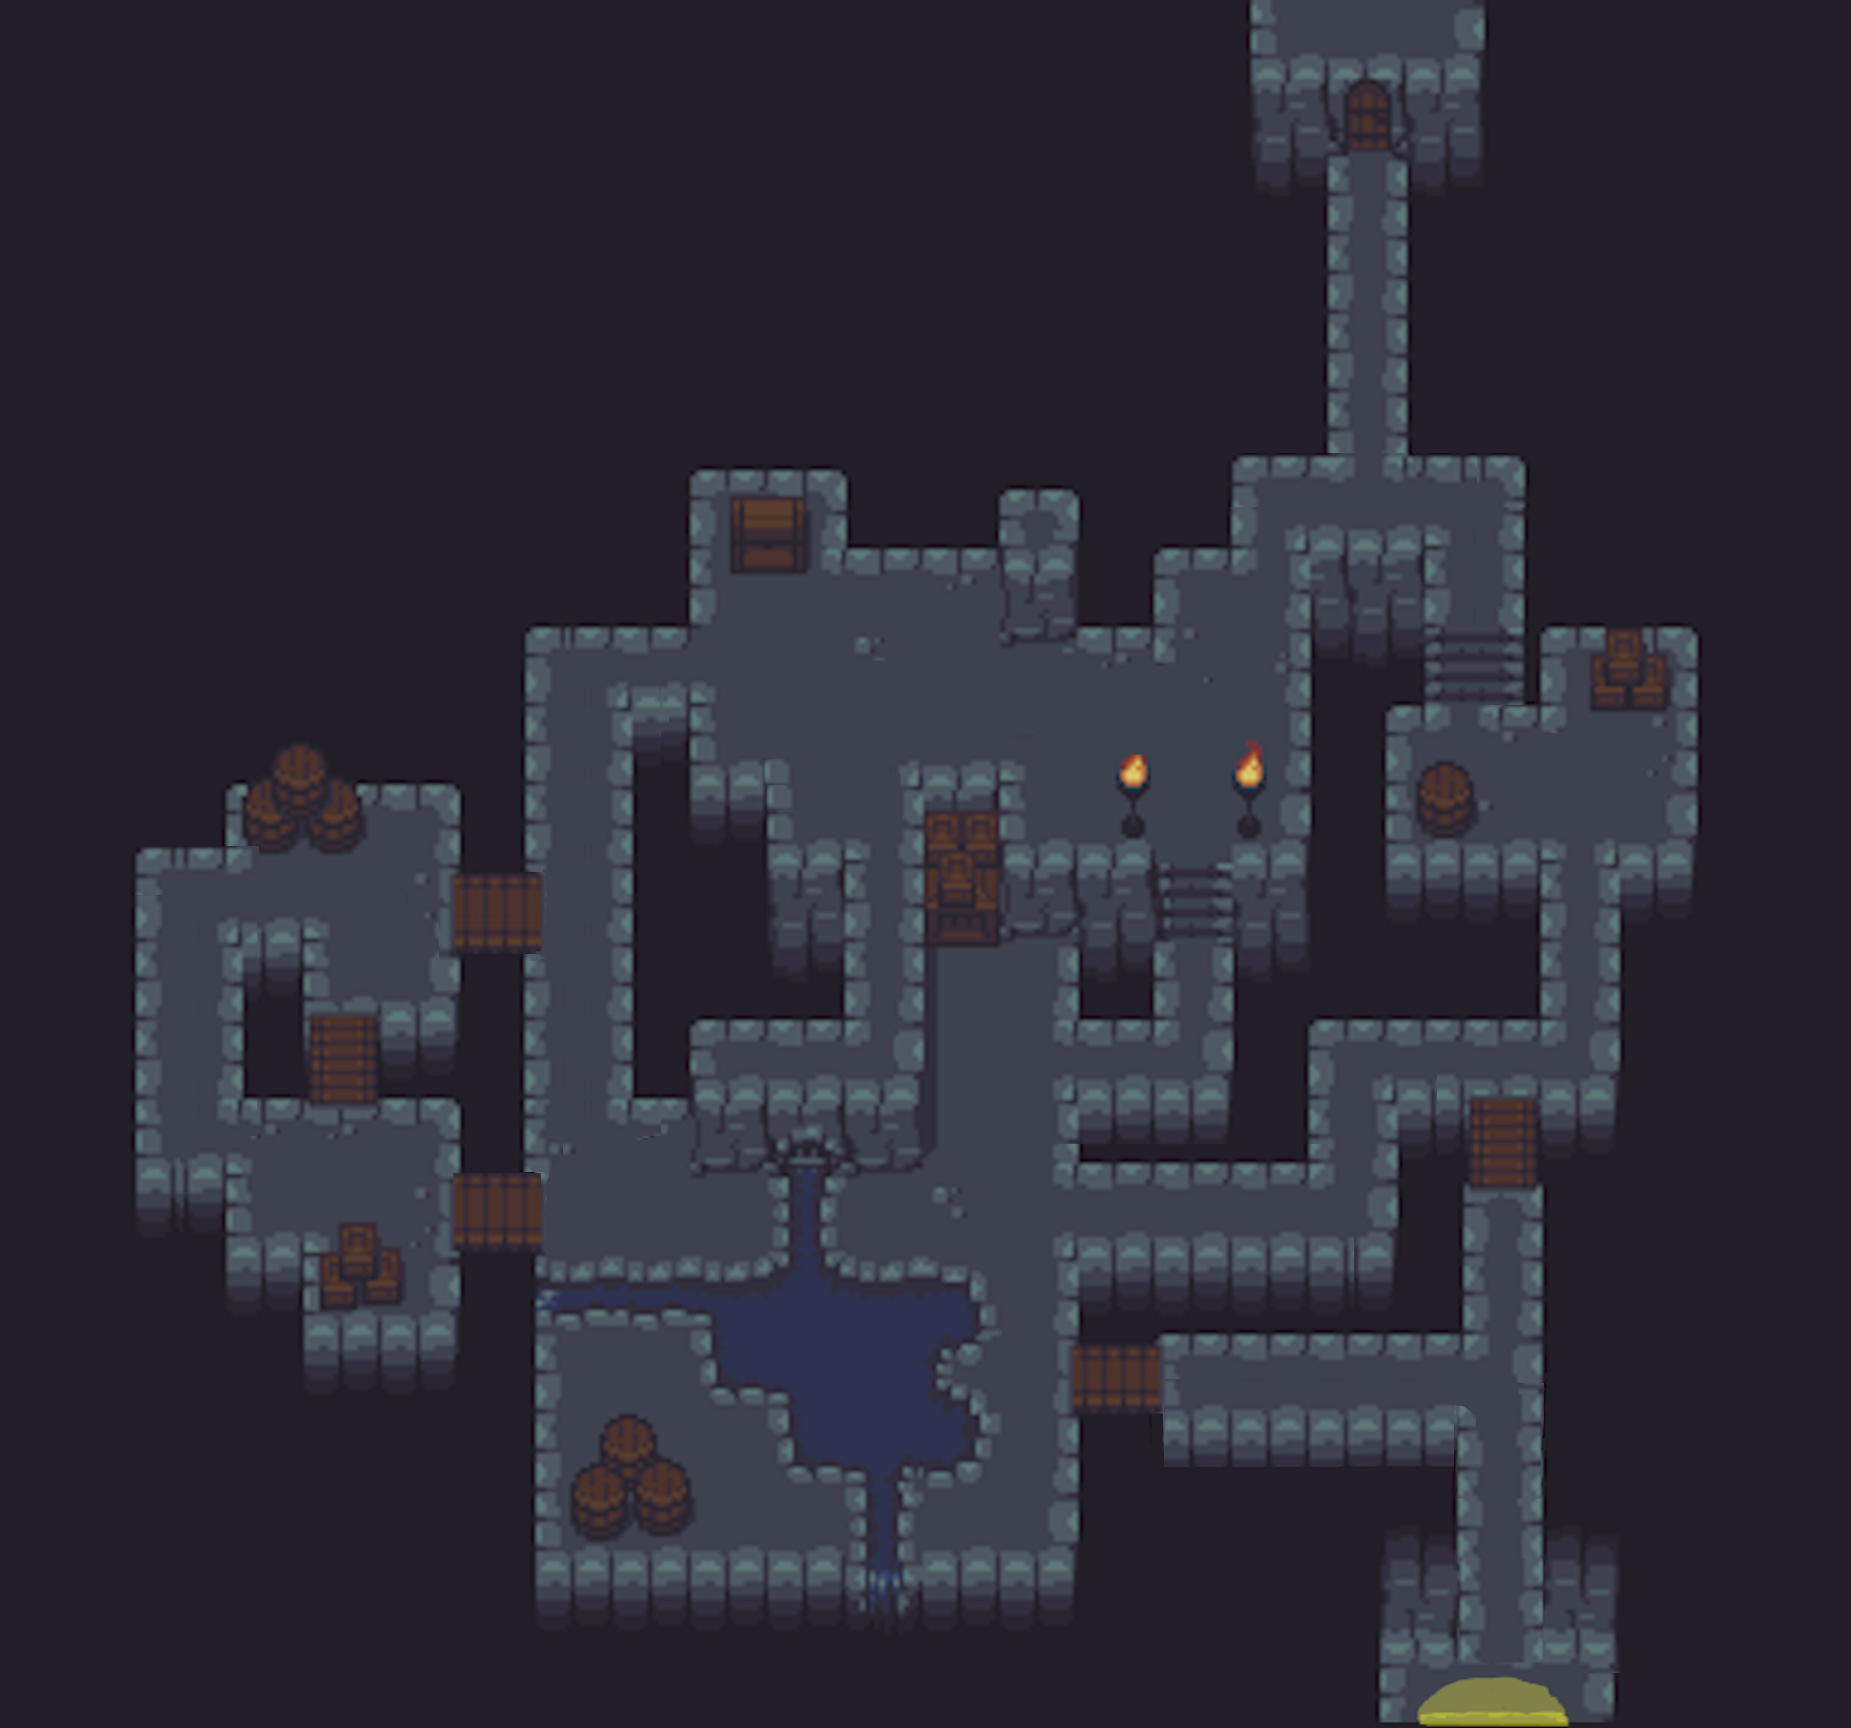
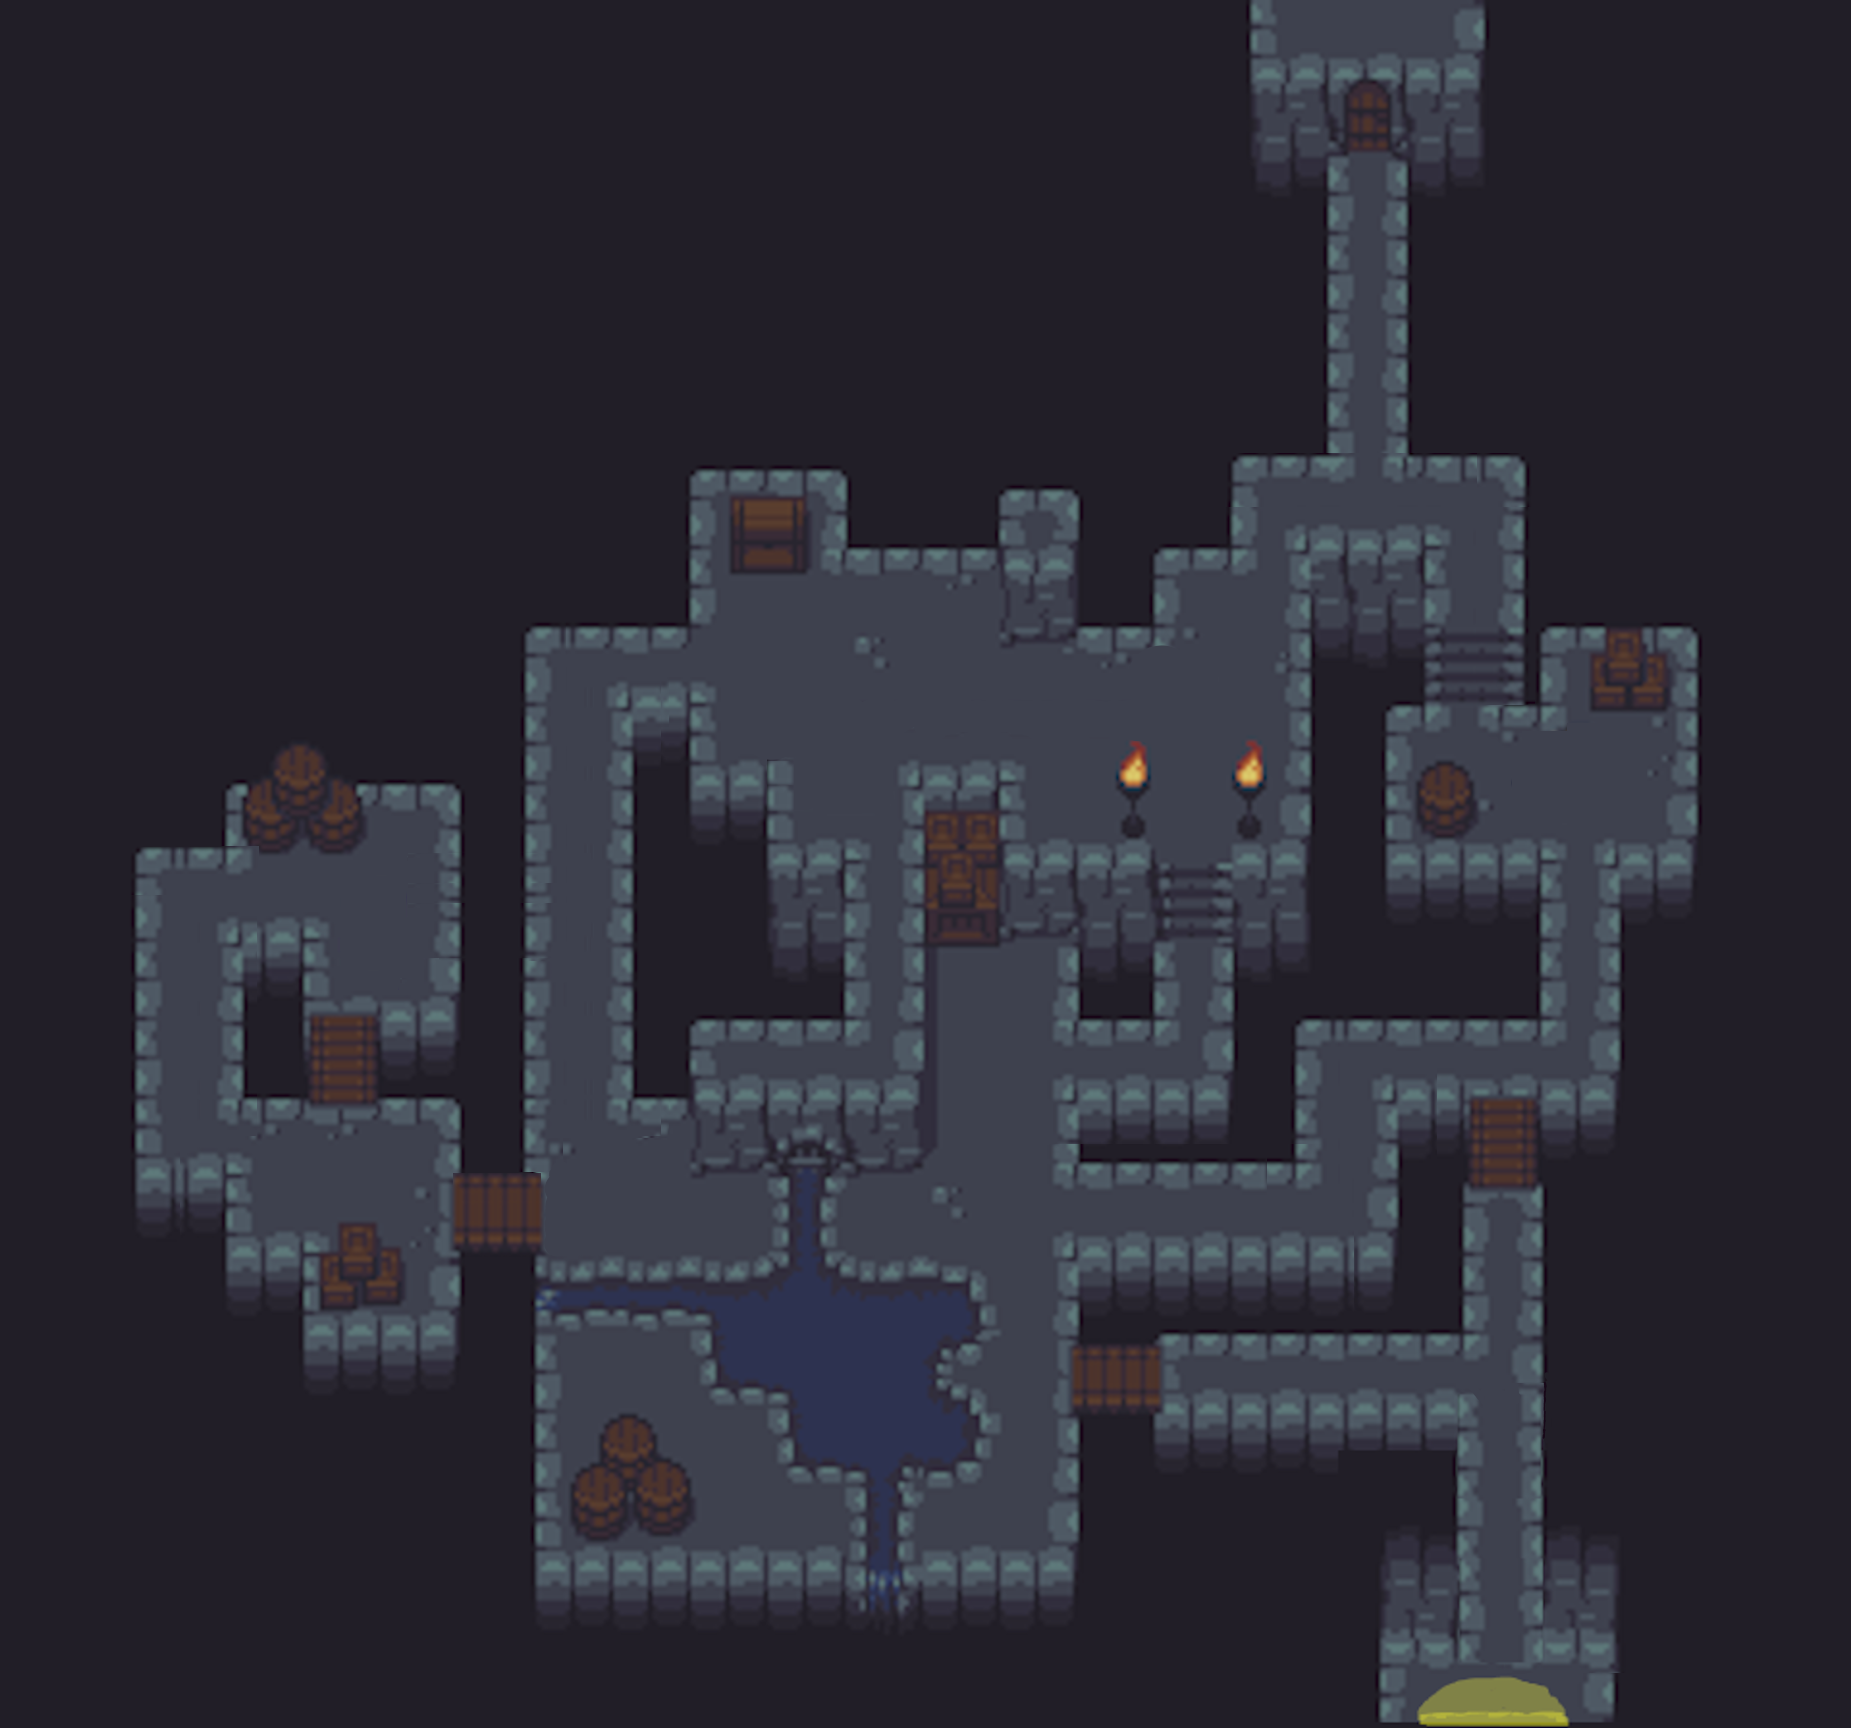
coffre et boss

Changed region(s): [[0.6775, 0.5938, 0.7391, 0.6875], [0.6159, 0.8125, 0.8006, 0.8438], [0.2464, 0.5, 0.3079, 0.5625]]

diff --git a/mapgrid.py b/mapgrid.py
@@ -38,8 +38,8 @@ Village_grid =[
 [1, 1, 1, 1, 1, 1, 1, 1, 1, 1, 0, 0, 0, 0, 0, 0, 0, 0, 0, 1, 0, 0, 0, 0, 0, 0, 0, 1, 1, 1, 1, 1, 0, 0, 0, 0, 0, 1, 1, 1, 1, 1, 1, 1, 1, 1, 1, 1, 1, 1, 1, 1, 1, 1, 1, 1, 0, 0, 1, 0, 0, 0, 1, 1, 1, 1],
 [1, 1, 1, 1, 1, 1, 1, 1, 1, 1, 1, 1, 0, 0, 0, 0, 0, 0, 1, 1, 0, 0, 0, 0, 0, 0, 0, 1, 1, 1, 1, 1, 0, 0, 0, 0, 0, 1, 1, 1, 1, 1, 1, 1, 1, 1, 1, 2305141, 1, 1, 1, 1, 2316141, 1, 1, 1, 0, 0, 1, 0, 0, 1, 1, 1, 1, 1],
 [1, 1, 1, 1, 1, 1, 1, 1, 0, 0, 1, 1, 1, 1, 2223261, 1, 1, 1, 1, 1, 0, 0, 0, 0, 0, 0, 0, 0, 1, 1, 1, 0, 0, 0, 0, 0, 0, 0, 0, 0, 0, 0, 0, 0, 0, 0, 0, 0, 0, 0, 0, 0, 0, 0, 0, 0, 0, 0, 0, 0, 0, 1, 1, 1, 1, 1],
-[1, 1, 1, 1, 1, 1, 1, 1, 1, 0, 0, 0, 1, 4, 0, 4, 1, 1, 0, 0, 0, 0, 0, 0, 0, 0, 0, 0, 0, 0, 0, 0, 0, 0, 0, 0, 0, 0, 0, 0, 0, 0, 0, 0, 0, 0, 0, 0, 0, 0, 0, 0, 0, 0, 0, 0, 0, 0, 0, 0, 0, 1, 1, 1, 1, 1],
-[1, 1, 1, 1, 1, 5, 0, 0, 0, 0, 0, 0, 0, 0, 0, 0, 0, 0, 0, 0, 0, 0, 0, 0, 0, 0, 0, 0, 0, 0, 0, 0, 0, 0, 0, 0, 0, 1, 0, 0, 0, 0, 0, 0, 0, 0, 0, 0, 0, 0, 0, 0, 0, 0, 0, 0, 0, 0, 1, 1, 1, 1, 1, 1, 1, 1],
+[1, 1, 1, 1, 1, 1, 1, 1, 1, 0, 0, 0, 1, 4, 0, 0, 1, 1, 0, 0, 0, 0, 0, 0, 0, 0, 0, 0, 0, 0, 0, 0, 0, 0, 0, 0, 0, 0, 0, 0, 0, 0, 0, 0, 0, 0, 0, 0, 0, 0, 0, 0, 0, 0, 0, 0, 0, 0, 0, 0, 0, 1, 1, 1, 1, 1],
+[1, 1, 1, 1, 1, 1, 5, 0, 0, 0, 0, 0, 0, 0, 0, 0, 0, 0, 0, 0, 0, 0, 0, 0, 0, 0, 0, 0, 0, 0, 0, 0, 0, 0, 0, 0, 0, 1, 0, 0, 0, 0, 0, 0, 0, 0, 0, 0, 0, 0, 0, 0, 0, 0, 0, 0, 0, 0, 1, 1, 1, 1, 1, 1, 1, 1],
 [1, 1, 1, 1, 0, 0, 0, 0, 0, 0, 0, 0, 0, 0, 0, 0, 0, 0, 0, 0, 0, 0, 0, 0, 0, 0, 1, 1, 0, 0, 0, 0, 0, 0, 0, 0, 0, 1, 1, 1, 1, 1, 1, 1, 1, 1, 1, 0, 0, 1, 1, 1, 1, 0, 0, 0, 1, 1, 1, 1, 1, 1, 1, 1, 1, 1],
 [1, 1, 1, 1, 0, 0, 0, 0, 0, 0, 1, 1, 1, 1, 1, 1, 1, 1, 1, 1, 1, 1, 0, 0, 0, 0, 1, 1, 1, 1, 1, 1, 1, 1, 0, 0, 0, 1, 1, 1, 1, 1, 1, 1, 1, 1, 1, 1, 1, 1, 1, 1, 1, 1, 1, 1, 1, 1, 0, 0, 0, 0, 0, 1, 1, 1],
 [1, 1, 1, 1, 1, 0, 0, 0, 0, 0, 1, 0, 0, 0, 0, 0, 0, 0, 0, 0, 0, 1, 0, 0, 0, 0, 0, 1, 1, 1, 1, 1, 1, 1, 0, 0, 0, 1, 1, 1, 1, 1, 1, 1, 1, 1, 1, 1, 1, 1, 1, 1, 1, 1, 1, 1, 0, 0, 0, 0, 0, 0, 0, 0, 1, 1],
@@ -87,19 +87,19 @@ Grotte_grid=[
 [1, 1, 1, 1, 1, 1, 1, 1, 1, 1, 1, 0, 5, 1, 1, 1, 1, 1, 1, 0, 0, 0, 0, 0, 1, 1, 1, 1, 1],
 [1, 1, 1, 1, 1, 1, 1, 1, 1, 1, 1, 0, 0, 0, 0, 0, 1, 1, 0, 0, 1, 1, 0, 0, 1, 1, 1, 1, 1],
 [1, 1, 1, 1, 1, 1, 1, 1, 0, 0, 0, 0, 0, 0, 0, 6, 0, 0, 0, 0, 1, 1, 0, 0, 0, 0, 1, 1, 1],
-[1, 1, 1, 1, 1, 1, 1, 1, 0, 0, 1, 0, 0, 0, 0, 0, 0, 0, 0, 0, 1, 1, 0, 0, 6, 0, 1, 1, 1],
+[1, 1, 1, 1, 1, 1, 1, 1, 0, 0, 1, 0, 0, 6, 0, 0, 0, 0, 0, 0, 1, 1, 0, 0, 6, 0, 1, 1, 1],
 [1, 1, 1, 5, 0, 0, 0, 1, 0, 0, 1, 1, 0, 0, 1, 1, 0, 0, 0, 0, 1, 1, 0, 0, 0, 0, 1, 1, 1],
-[1, 1, 0, 6, 0, 0, 0, 0, 0, 0, 1, 1, 1, 0, 1, 1, 1, 1, 0, 0, 1, 1, 1, 1, 0, 1, 1, 1, 1],
-[1, 1, 0, 0, 0, 0, 0, 0, 0, 0, 1, 1, 1, 0, 1, 5, 0, 1, 0, 0, 1, 1, 1, 1, 0, 1, 1, 1, 1],
+[1, 1, 0, 6, 0, 0, 0, 1, 0, 0, 1, 1, 1, 0, 1, 1, 1, 1, 0, 0, 1, 1, 1, 1, 0, 1, 1, 1, 1],
+[1, 1, 0, 0, 0, 0, 0, 1, 0, 0, 1, 1, 1, 0, 1, 5, 0, 1, 0, 1, 1, 1, 1, 1, 0, 1, 1, 1, 1],
 [1, 1, 0, 0, 1, 0, 0, 1, 0, 0, 1, 1, 1, 0, 1, 0, 0, 1, 0, 1, 1, 1, 1, 1, 0, 1, 1, 1, 1],
 [1, 1, 0, 0, 1, 0, 1, 1, 0, 0, 1, 0, 0, 0, 1, 0, 0, 0, 0, 1, 0, 0, 0, 0, 0, 1, 1, 1, 1],
-[1, 1, 0, 0, 0, 0, 0, 1, 0, 0, 0, 1, 1, 1, 0, 0, 0, 1, 1, 1, 0, 0, 1, 0, 1, 1, 1, 1, 1],
-[1, 1, 0, 0, 0, 0, 0, 0, 0, 0, 0, 0, 0, 6, 0, 0, 0, 0, 0, 0, 0, 0, 1, 0, 1, 1, 1, 1, 1],
-[1, 1, 1, 1, 0, 0, 0, 0, 0, 0, 0, 0, 0, 0, 0, 0, 0, 0, 0, 0, 0, 0, 1, 0, 1, 1, 1, 1, 1],
-[1, 1, 1, 1, 1, 0, 0, 1, 1, 0, 0, 0, 0, 6, 0, 0, 0, 1, 1, 1, 1, 1, 1, 0, 1, 1, 1, 1, 1],
-[1, 1, 1, 1, 1, 1, 1, 1, 1, 0, 0, 0, 0, 0, 0, 0, 0, 0, 0, 0, 0, 0, 0, 0, 1, 1, 1, 1, 1],
-[1, 1, 1, 1, 1, 1, 1, 1, 1, 0, 0, 0, 0, 0, 0, 0, 0, 0, 0, 0, 0, 0, 0, 0, 1, 1, 1, 1, 1],
-[1, 1, 1, 1, 1, 1, 1, 1, 1, 0, 0, 0, 0, 0, 0, 0, 0, 1, 1, 1, 1, 1, 1, 0, 1, 1, 1, 1, 1],
+[1, 1, 0, 0, 0, 0, 0, 1, 0, 0, 0, 1, 1, 1, 1, 0, 0, 1, 1, 1, 0, 0, 1, 0, 1, 1, 1, 1, 1],
+[1, 1, 0, 0, 0, 0, 0, 0, 0, 0, 0, 0, 1, 0, 0, 0, 0, 0, 0, 0, 0, 1, 1, 0, 1, 1, 1, 1, 1],
+[1, 1, 1, 1, 0, 0, 0, 0, 0, 0, 0, 0, 1, 0, 0, 0, 0, 0, 0, 0, 0, 1, 1, 0, 1, 1, 1, 1, 1],
+[1, 1, 1, 1, 1, 0, 0, 1, 1, 1, 1, 1, 1, 6, 1, 0, 0, 1, 1, 1, 1, 1, 1, 0, 1, 1, 1, 1, 1],
+[1, 1, 1, 1, 1, 1, 1, 1, 1, 0, 0, 0, 0, 1, 1, 0, 0, 0, 0, 0, 0, 0, 0, 0, 1, 1, 1, 1, 1],
+[1, 1, 1, 1, 1, 1, 1, 1, 1, 0, 0, 0, 1, 1, 1, 0, 0, 1, 0, 0, 0, 0, 0, 0, 1, 1, 1, 1, 1],
+[1, 1, 1, 1, 1, 1, 1, 1, 1, 0, 0, 0, 0, 1, 0, 0, 0, 1, 1, 1, 1, 1, 1, 0, 1, 1, 1, 1, 1],
 [1, 1, 1, 1, 1, 1, 1, 1, 1, 1, 1, 1, 1, 1, 1, 1, 1, 1, 1, 1, 1, 1, 1, 0, 1, 1, 1, 1, 1],
 [1, 1, 1, 1, 1, 1, 1, 1, 1, 1, 1, 1, 1, 1, 1, 1, 1, 1, 1, 1, 1, 1, 1, 0, 1, 1, 1, 1, 1],
 [1, 1, 1, 1, 1, 1, 1, 1, 1, 1, 1, 1, 1, 1, 1, 1, 1, 1, 1, 1, 1, 1, 1, 2114103, 1, 1, 1, 1, 1]
@@ -185,7 +185,7 @@ Salle_boss_grid = [
 [1, 1, 1, 1, 1, 1, 1, 1, 1, 1, 1, 1, 1, 1, 1, 1, 1, 1, 1, 1],
 [1, 1, 1, 1, 1, 1, 1, 1, 1, 1, 1, 1, 1, 1, 1, 1, 1, 1, 1, 1],
 [1, 1, 1, 1, 0, 0, 0, 0, 0, 0, 0, 0, 0, 0, 0, 0, 1, 1, 1, 1],
-[1, 1, 1, 0, 0, 0, 0, 0, 0, 0, 0, 0, 0, 0, 0, 0, 0, 1, 1, 1],
+[1, 1, 1, 0, 0, 0, 0, 0, 0, 0, 5, 0, 0, 0, 0, 0, 0, 1, 1, 1],
 [1, 1, 0, 0, 0, 0, 0, 0, 0, 0, 0, 0, 0, 0, 0, 0, 0, 0, 1, 1],
 [1, 1, 0, 0, 0, 0, 0, 0, 0, 0, 0, 0, 0, 0, 0, 0, 0, 0, 1, 1],
 [1, 1, 0, 0, 0, 0, 0, 0, 0, 0, 0, 0, 0, 0, 0, 0, 0, 0, 1, 1],

diff --git a/Fonction.py b/Fonction.py
@@ -348,7 +348,6 @@ class perso(element_anime_dir):
                self.map[2][attack_rect.y//64][(attack_rect.x+52)//64]==6 or
                self.map[2][(attack_rect.y+52)//64][attack_rect.x//64]==6 or
                self.map[2][(attack_rect.y+52)//64][(attack_rect.x+52)//64]==6):
-
                 if self.map_id in map_having_ennemi:
                     for ennemi in ennemiL:
                         if(attack_rect.colliderect(ennemi.rect)):
@@ -657,7 +656,7 @@ class perso(element_anime_dir):
                                     if c.inclinaison ==3:
                                         c.image = pygame.image.load("Source/Autre/Chest/chest_open_bas.png")
                                         c.image = pygame.transform.scale(c.image, (60,60))
-                                        
+
                                 self.inDialog = True
                                 self.fenetre.blit(boxImage, rectBox)
                                 myfont.render_to(self.fenetre, (152,452),"Vous avez trouvé " + c.objet.nom+ " !", (0,0,0))
@@ -741,7 +740,7 @@ class ennemi(element_anime_dir):
             rect_provisoire.y+=self.vitesse #Déplacement Focus
 
 
-        if(perso.map[2][rect_provisoire.y//64][rect_provisoire.x//64]==0 or perso.map[2][rect_provisoire.y//64][rect_provisoire.x//64]==6):
+        if((perso.map[2][rect_provisoire.y//64][rect_provisoire.x//64]==0) or perso.map[2][rect_provisoire.y//64][rect_provisoire.x//64]==6):
             (perso.map[2])[self.rect.y//64][self.rect.x//64] = 0
             self.rect = rect_provisoire
             (perso.map[2])[rect_provisoire.y//64][rect_provisoire.x//64] = 6
@@ -929,25 +928,25 @@ def lecture_objet():
     objet["ennemi"]["boss"]["bas"]=[]
 
     image = pygame.image.load("Source/PNJ/Boss/boss_all.png").convert_alpha()
-    image = pygame.transform.scale(image, (150, 150))
+    image = pygame.transform.scale(image, (80, 80))
     objet["ennemi"]["boss"]["bas"].append(image)
 
     objet["ennemi"]["boss"]["haut"]=[]
 
     image = pygame.image.load("Source/PNJ/Boss/boss_all.png").convert_alpha()
-    image = pygame.transform.scale(image, (150, 150))
+    image = pygame.transform.scale(image, (80, 80))
     objet["ennemi"]["boss"]["haut"].append(image)
 
     objet["ennemi"]["boss"]["droite"]=[]
 
     image = pygame.image.load("Source/PNJ/Boss/boss_all.png").convert_alpha()
-    image = pygame.transform.scale(image, (150, 150))
+    image = pygame.transform.scale(image, (80, 80))
     objet["ennemi"]["boss"]["droite"].append(image)
 
     objet["ennemi"]["boss"]["gauche"]=[]
 
     image = pygame.image.load("Source/PNJ/Boss/boss_all.png").convert_alpha()
-    image = pygame.transform.scale(image, (150, 150))
+    image = pygame.transform.scale(image, (80, 80))
     objet["ennemi"]["boss"]["gauche"].append(image)
 
 

diff --git a/pnj_gestion.py b/pnj_gestion.py
@@ -26,7 +26,7 @@ aubergiste = pnj(fenetre,image = pygame.image.load("Source/Map/warp.png") ,x= dB
 
 niece = pnj(fenetre,image = pygame.image.load("Source/PNJ/USE/solider_stand_bas.png") ,x= dBox(1,Village_grid)[0]*64, y = dBox(1,Village_grid)[1]*64,text = ["C'était ton collier ! Oh non... Qu'est ce que je vais faire...","Pour tout te dire hier en allant patrouiller dans la grotte, le collier est tomber lors d'un combat", "Si tu y tient vraiment je peux te laisser passer..."], inclinaison = 3)
 
-soldat2 = pnj(fenetre,image = pygame.image.load("Source/PNJ/USE/solider_stand_bas.png") ,x= (dBox(2,Village_grid)[0]*64)+15, y = dBox(2,Village_grid)[1]*64,text = ["Un enfant de 8 ans dans une grotte pleine de monstres...","...Je refléchis trop ! Qu'est ce qu'il pourrait bien lui arriver de pire",], inclinaison = 3)
+# soldat2 = pnj(fenetre,image = pygame.image.load("Source/PNJ/USE/solider_stand_bas.png") ,x= (dBox(2,Village_grid)[0]*64)+15, y = dBox(2,Village_grid)[1]*64,text = ["Un enfant de 8 ans dans une grotte pleine de monstres...","...Je refléchis trop ! Qu'est ce qu'il pourrait bien lui arriver de pire",], inclinaison = 3)
 
 
 
@@ -36,4 +36,4 @@ pnj_liste[4][0] = armurier
 pnj_liste[5][0] = epiciere
 
 pnj_liste[1][0] = niece
-pnj_liste[1][1] = soldat2
+# pnj_liste[1][1] = soldat2

diff --git a/MAIN.py b/MAIN.py
@@ -170,6 +170,15 @@ while Play:
 		if(not perso.inDialog):
 			perso.deplacement(vie=perso.vie, ennemiL=ennemi_liste[perso.map_id])
 
+		if perso.map_id in map_having_ennemi:
+			for ennemi in ennemi_liste[perso.map_id]:
+				if ennemi.vie > 0:
+					ennemi.afficher(perso=perso)
+					ennemi.deplacement( perso = perso)
+					ennemi.attaque(perso = perso)
+				else:
+					perso.map[2][ennemi.rect.y//64][ennemi.rect.x//64] =0
+
 		#Gestion Dialogue
 		perso.read(DB = DialogBoxes)
 		perso.talk(PNG = pnj_liste)
@@ -179,18 +188,17 @@ while Play:
 
 		#Gestion coffre
 		if perso.map_id in map_having_coffre:
-			for coffre in coffre_liste[perso.map_id]:
-				coffre.afficher(perso=perso)
+			if perso.map_id == 6:
+				for ennemi in ennemi_liste[perso.map_id]:
+					if ennemi.vie <= 0:
+						for coffre in coffre_liste[perso.map_id]:
+							coffre.afficher(perso=perso)
+			else:
+				for coffre in coffre_liste[perso.map_id]:
+					coffre.afficher(perso=perso)
 
 		#Gestion ennemis
-		if perso.map_id in map_having_ennemi:
-			for ennemi in ennemi_liste[perso.map_id]:
-				if ennemi.vie > 0:
-					ennemi.afficher(perso=perso)
-					ennemi.deplacement( perso = perso)
-					ennemi.attaque(perso = perso)
-				else:
-					perso.map[2][ennemi.rect.y//64][ennemi.rect.x//64] =0
+
 
 
 

diff --git a/coffre_gestion.py b/coffre_gestion.py
@@ -28,6 +28,9 @@ map3_coffre_2 = coffre(fenetre,image = pygame.image.load("Source/Autre/Chest/big
 
 map3_coffre_3 = coffre(fenetre,image = pygame.image.load("Source/Autre/Chest/big_chest_bas.png") ,x= dBox(3,Grotte_grid)[0]*64, y = dBox(3,Grotte_grid)[1]*64,objet = objet_dict["Clé3"], inclinaison = 3, open = False)
 
+map6_coffre_1 = coffre(fenetre,image = pygame.image.load("Source/Autre/Chest/big_chest_bas.png") ,x= dBox(1,Salle_boss_grid)[0]*64, y = dBox(1,Salle_boss_grid)[1]*64,objet = objet_dict["Collier"], inclinaison = 3, open = False)
+
+
 coffre_liste[0][0] = map1_coffre_1
 
 coffre_liste[1][0] = map2_coffre_1
@@ -36,3 +39,5 @@ coffre_liste[1][1] = map2_coffre_2
 coffre_liste[2][0] = map3_coffre_1
 coffre_liste[2][1] = map3_coffre_2
 coffre_liste[2][2] = map3_coffre_3
+
+coffre_liste[6][0] = map6_coffre_1

diff --git a/constantes.py b/constantes.py
@@ -11,15 +11,15 @@ CameraX=0
 CameraY=0
 
 DialogBoxes = [ [0,0],[], [] ,[], [], [], []]
-pnj_liste = [ [0],[0,0],[],[0],[0],[0],[] ]
-coffre_liste = [ [0],[0,0],[0,0,0],[],[],[],[]]
+pnj_liste = [ [0],[0],[],[0],[0],[0],[] ]
+coffre_liste = [ [0],[0,0],[0,0,0],[],[],[],[0]]
 ennemi_liste = [ [],[], [0,0,0,0,0] ,[], [], [], [0]]
 
 
 Intro, Menu, enJeu, GameOver = 1,0,0,0
 myfont = pygame.freetype.Font(None, 15)
 map_having_pnj = [0,1,3,4,5]
-map_having_coffre = [0,1,2]
+map_having_coffre = [0,1,2,6]
 map_having_ennemi = [2,6]
 
 Transi = [pygame.image.load("Source/Transi/1.jpg").convert_alpha(),

diff --git a/objet_gestion.py b/objet_gestion.py
@@ -11,5 +11,6 @@ objet_dict = {
     "Clé1" : Objet(image = elementgraphique(pygame.image.load("Source/Autre/key.png"), fenetre), nom = "cle1", type = "quete"),
     "Clé2" : Objet(image = elementgraphique(pygame.image.load("Source/Autre/key.png"), fenetre), nom = "cle2", type = "quete"),
     "Clé3" : Objet(image = elementgraphique(pygame.image.load("Source/Autre/key.png"), fenetre), nom = "cle3", type = "quete"),
+    "Collier" : Objet(image = elementgraphique(pygame.image.load("Source/Autre/collier.png"), fenetre), nom = "collier", type = "quete"),
 
     }

diff --git a/ennemi_gestion.py b/ennemi_gestion.py
@@ -32,3 +32,4 @@ ennemi_liste[2][3] = ennemi_grotte_4
 ennemi_liste[2][4] = ennemi_grotte_5
 
 ennemi_liste[6][0] = boss
+ennemi_liste[6][0].vie = 30
